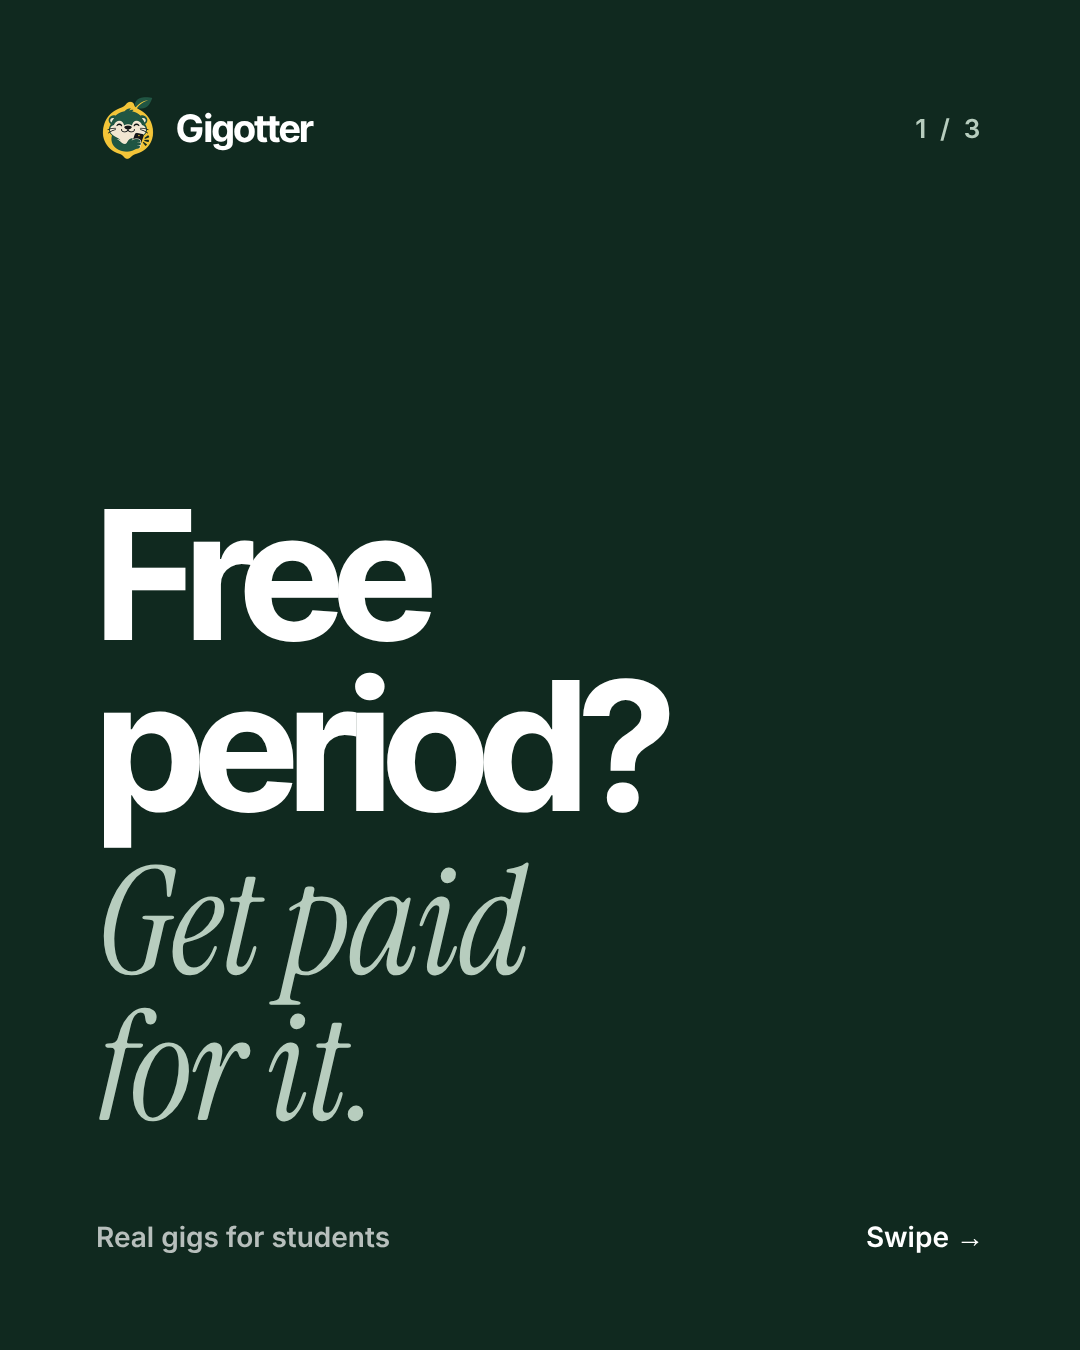
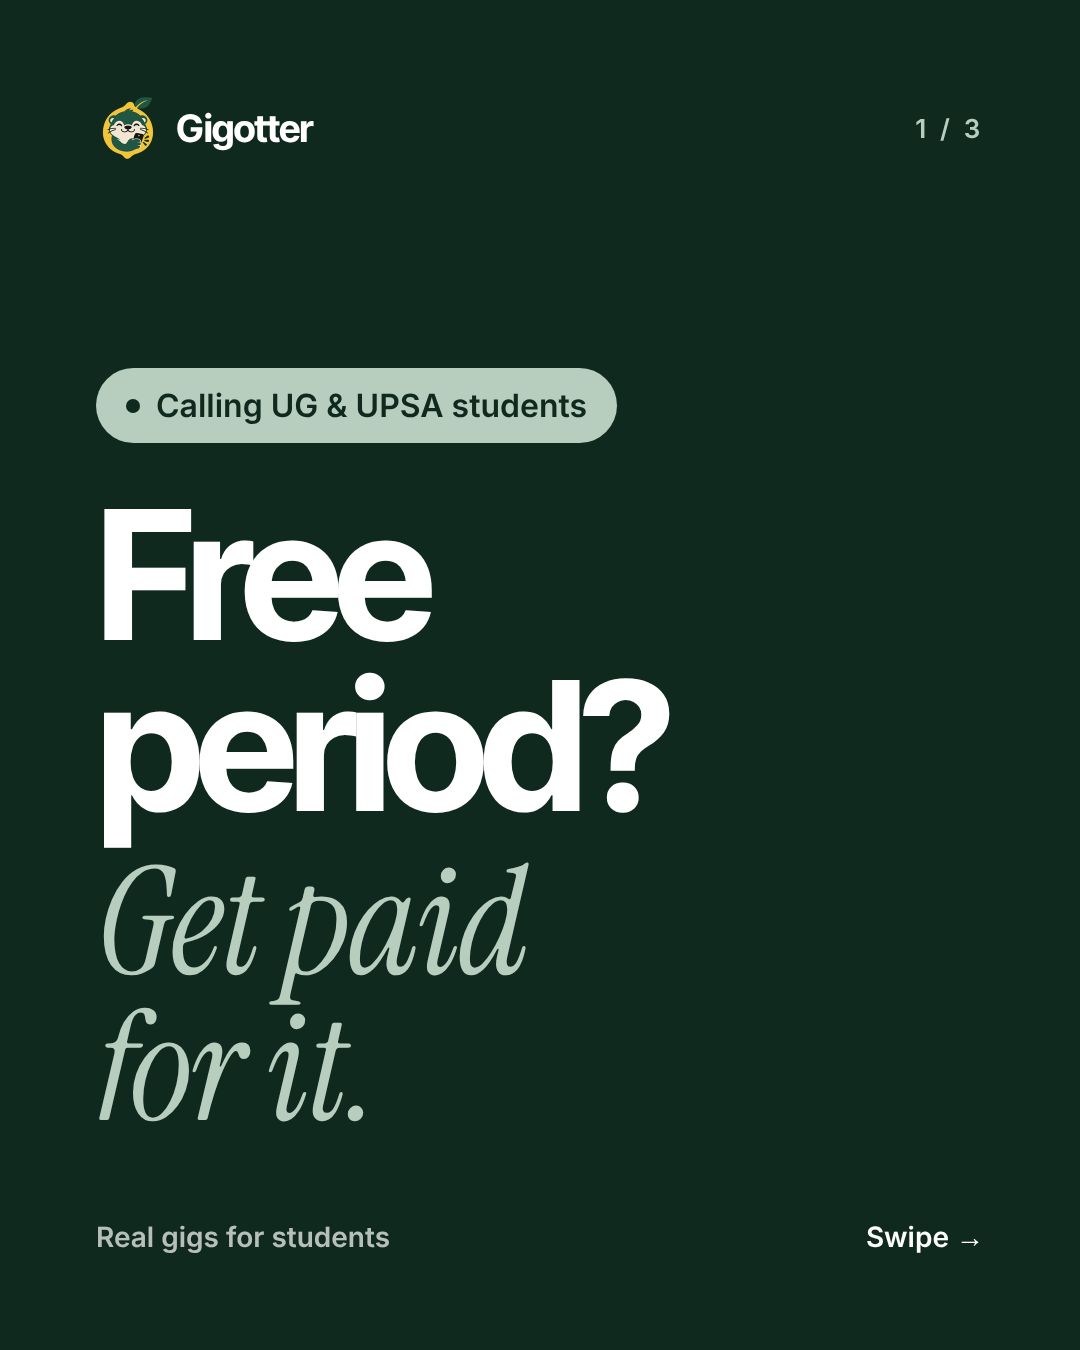
Instagram post 2: call out UG and UPSA students
Claude-Session: https://claude.ai/code/session_01E2vaLUqDfRKS7n3VPqTwzA

Changed region(s): [[0.0917, 0.2489, 0.5806, 0.3422]]

diff --git a/docs/social/instagram-02/build.py b/docs/social/instagram-02/build.py
@@ -32,6 +32,8 @@ s1 = f"""
 <section class="s" style="background:#10291F"><div class="in">
   {top(1, True)}
   <div style="margin-top:auto">
+    <div style="display:inline-flex;align-items:center;gap:16px;padding:18px 30px;border-radius:999px;background:#B7CDBE;color:#10291F;font:600 32px Inter;margin-bottom:46px">
+      <span style="width:14px;height:14px;border-radius:50%;background:#10291F;display:block"></span>Calling UG &amp; UPSA students</div>
     <h1 style="font-size:180px;color:#fff">Free<br>period?</h1>
     <h1 style="margin-top:18px;font-size:150px;color:#B7CDBE"><span class="em">Get paid</span><br><span class="em">for it.</span></h1>
   </div>
@@ -66,7 +68,7 @@ s3 = f"""
   <div style="margin:auto 0;display:flex;flex-direction:column;align-items:center">
     <img src="{LOGO}" alt="" style="width:170px;height:170px">
     <h1 style="margin-top:48px;font-size:118px;color:#15171A">Your first gig<br><span class="em" style="color:#245A44">is waiting.</span></h1>
-    <p style="margin-top:34px;font-size:36px;line-height:1.4;color:#6B7077">Sign up in two minutes.</p>
+    <p style="margin-top:34px;font-size:36px;line-height:1.4;color:#6B7077">Open to students at Legon, UPSA and beyond.<br>Sign up in two minutes.</p>
     <div style="margin-top:56px;padding:30px 56px;border-radius:999px;background:#15171A;color:#fff;font:700 46px Tight;letter-spacing:-0.02em">gigotter.com</div>
     <p style="margin-top:26px;font:600 28px Inter;color:#2F6B52">Link in bio</p>
   </div>
